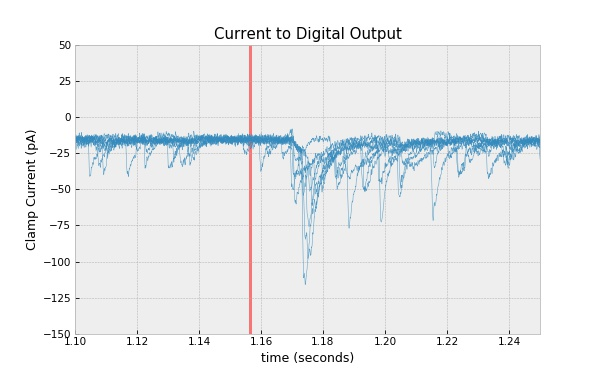
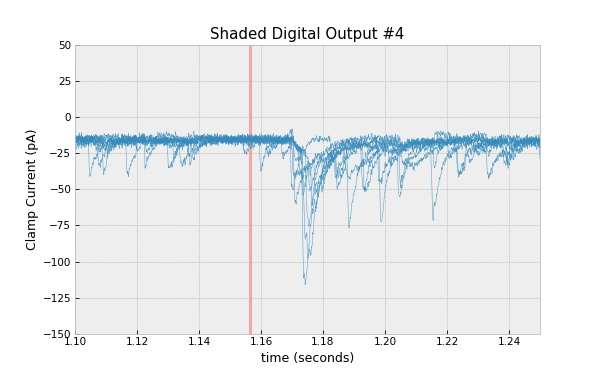
improve digital output shading

Changed region(s): [[0.33, 0.0587, 0.69, 0.352], [0.39, 0.3813, 0.42, 0.88]]

diff --git a/docs/getting-started/generate.py b/docs/getting-started/generate.py
@@ -300,7 +300,7 @@ class Uses:
             plt.plot(abf.sweepX, abf.sweepY, color='C0', alpha=.8, lw=.5)
         plt.ylabel(abf.sweepLabelY)
         plt.xlabel(abf.sweepLabelX)
-        plt.title("Current to Digital Output")
+        plt.title("Shaded Digital Output #4")
         plt.axis([1.10, 1.25, -150, 50])
 
         outputStateByEpoch = abf.digitalWaveformEpochs[4]  # digital output 4
@@ -309,7 +309,7 @@ class Uses:
                 t1 = abf.epochPoints[epochNumber]*abf.dataSecPerPoint
                 t2 = abf.epochPoints[epochNumber+1]*abf.dataSecPerPoint
                 print(t1, t2)
-                plt.axvspan(t1, t2, color='r', alpha=.5, lw=0)
+                plt.axvspan(t1, t2, color='r', alpha=.3, lw=0)
 
         self.saveAndClose()
 

diff --git a/docs/getting-started/readme.md b/docs/getting-started/readme.md
@@ -328,7 +328,7 @@ for sweepNumber in abf.sweepList:
     plt.plot(abf.sweepX, abf.sweepY, color='C0', alpha=.8, lw=.5)
 plt.ylabel(abf.sweepLabelY)
 plt.xlabel(abf.sweepLabelX)
-plt.title("Current to Digital Output")
+plt.title("Shaded Digital Output #4")
 plt.axis([1.10, 1.25, -150, 50])
 
 outputStateByEpoch = abf.digitalWaveformEpochs[4]  # digital output 4
@@ -337,7 +337,7 @@ for epochNumber, outputState in enumerate(outputStateByEpoch):
         t1 = abf.epochPoints[epochNumber]*abf.dataSecPerPoint
         t2 = abf.epochPoints[epochNumber+1]*abf.dataSecPerPoint
         print(t1, t2)
-        plt.axvspan(t1, t2, color='r', alpha=.5, lw=0)
+        plt.axvspan(t1, t2, color='r', alpha=.3, lw=0)
 
 plt.show()
 ```
